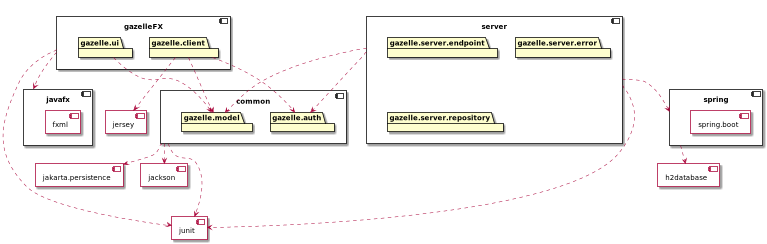
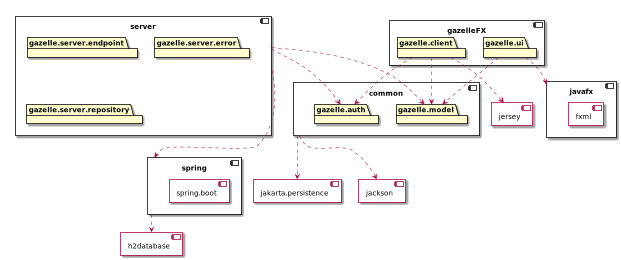
docs(uml): legge diagrammet inn i toppnivå-README

diff --git a/README.md b/README.md
@@ -13,6 +13,8 @@ Appen er delt inn i flere moduler: Klient, tjener og delt logikk.
  - Tjeneren er skrevet i Spring Boot og ligger i mappen `server/`
  - Delt logikk, slik som objekter og tekst-tolking ligger i `common/`
 
+![PlantUML-diagram over arkitektur](assets/architecture.png)
+
 Tjeneren tar seg av lagring og det meste av prosessering.
 Den har et REST-api som klienten bruker for å hente og sende data.
 
